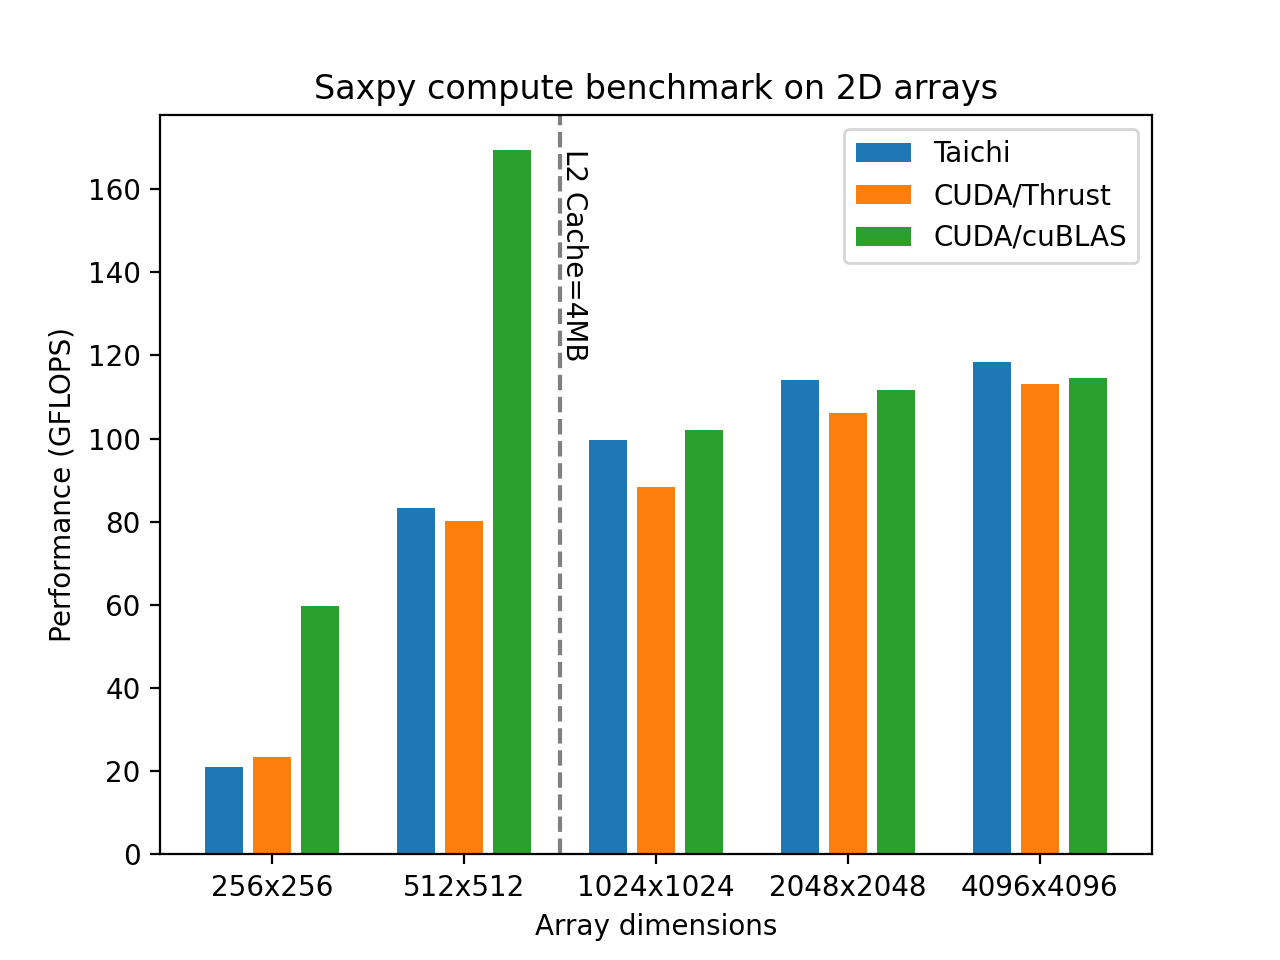
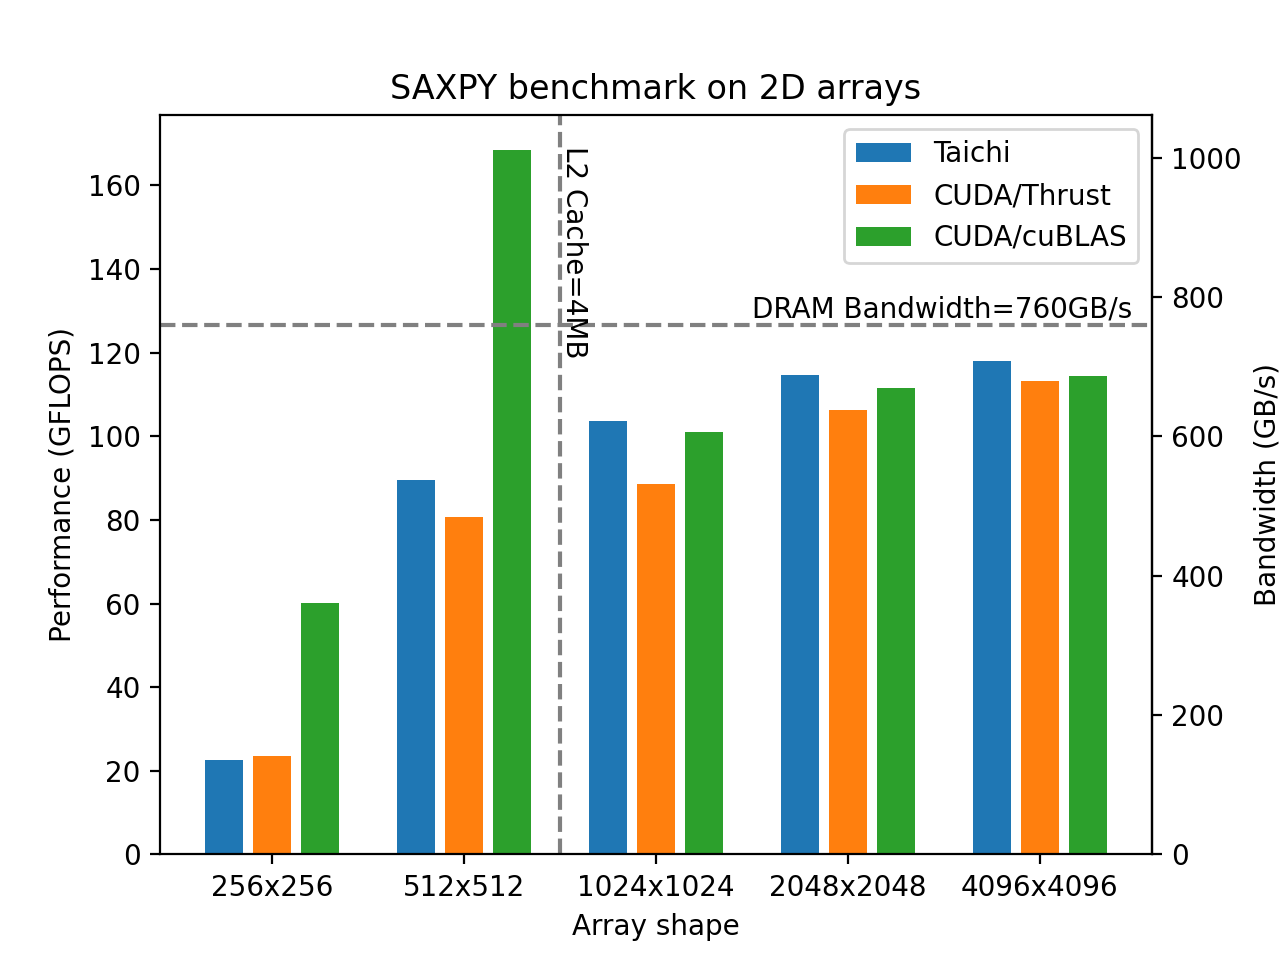
Update figures for base benchmark

diff --git a/saxpy/plot_benchmark.py b/saxpy/plot_benchmark.py
@@ -4,7 +4,7 @@ from src.cuda.benchmark import benchmark as benchmark_cuda
 import sys
 import os
 
-sample_res = '{"cublas": [{"N": 256, "time": 0.002, "gflops": 58.671, "gbs": 352.029}, {"N": 512, "time": 0.003, "gflops": 170.522, "gbs": 1023.134}, {"N": 1024, "time": 0.021, "gflops": 101.976, "gbs": 611.855}, {"N": 2048, "time": 0.075, "gflops": 111.558, "gbs": 669.347}, {"N": 4096, "time": 0.293, "gflops": 114.517, "gbs": 687.102}], "thrust": [{"N": 256, "fold": 1, "time": 0.006, "gflops": 23.711, "gbs": 142.269}, {"N": 256, "fold": 2, "time": 0.005, "gflops": 47.977, "gbs": 143.93}, {"N": 256, "fold": 4, "time": 0.006, "gflops": 94.805, "gbs": 142.207}, {"N": 256, "fold": 8, "time": 0.006, "gflops": 184.875, "gbs": 138.657}, {"N": 256, "fold": 16, "time": 0.006, "gflops": 334.826, "gbs": 125.56}, {"N": 512, "fold": 1, "time": 0.006, "gflops": 81.535, "gbs": 489.212}, {"N": 512, "fold": 2, "time": 0.006, "gflops": 163.743, "gbs": 491.228}, {"N": 512, "fold": 4, "time": 0.006, "gflops": 325.564, "gbs": 488.346}, {"N": 512, "fold": 8, "time": 0.007, "gflops": 641.9, "gbs": 481.425}, {"N": 512, "fold": 16, "time": 0.007, "gflops": 1188.255, "gbs": 445.596}, {"N": 1024, "fold": 1, "time": 0.024, "gflops": 88.949, "gbs": 533.694}, {"N": 1024, "fold": 2, "time": 0.024, "gflops": 178.07, "gbs": 534.211}, {"N": 1024, "fold": 4, "time": 0.023, "gflops": 357.312, "gbs": 535.968}, {"N": 1024, "fold": 8, "time": 0.024, "gflops": 709.66, "gbs": 532.245}, {"N": 1024, "fold": 16, "time": 0.024, "gflops": 1392.069, "gbs": 522.026}, {"N": 2048, "fold": 1, "time": 0.079, "gflops": 106.381, "gbs": 638.284}, {"N": 2048, "fold": 2, "time": 0.079, "gflops": 212.751, "gbs": 638.252}, {"N": 2048, "fold": 4, "time": 0.079, "gflops": 425.298, "gbs": 637.948}, {"N": 2048, "fold": 8, "time": 0.079, "gflops": 849.912, "gbs": 637.434}, {"N": 2048, "fold": 16, "time": 0.079, "gflops": 1689.668, "gbs": 633.625}, {"N": 4096, "fold": 1, "time": 0.296, "gflops": 113.187, "gbs": 679.122}, {"N": 4096, "fold": 2, "time": 0.296, "gflops": 226.36, "gbs": 679.079}, {"N": 4096, "fold": 4, "time": 0.296, "gflops": 452.762, "gbs": 679.144}, {"N": 4096, "fold": 8, "time": 0.297, "gflops": 905.013, "gbs": 678.76}, {"N": 4096, "fold": 16, "time": 0.297, "gflops": 1807.705, "gbs": 677.889}], "taichi": [{"N": 256, "fold": 1, "time": 0.006319954199716448, "gflops": 20.739390802211936, "gbs": 124.43634481327163}, {"N": 256, "fold": 2, "time": 0.0062749893870204685, "gflops": 41.77600691122012, "gbs": 125.32802073366038}, {"N": 256, "fold": 4, "time": 0.006239291187375783, "gflops": 84.03005794325061, "gbs": 126.04508691487594}, {"N": 256, "fold": 8, "time": 0.006320460978895426, "gflops": 165.90182322164276, "gbs": 124.42636741623207}, {"N": 256, "fold": 16, "time": 0.0063150141853839156, "gflops": 332.0898320155564, "gbs": 124.53368700583364}, {"N": 512, "fold": 1, "time": 0.006552474806085229, "gflops": 80.0137376359079, "gbs": 480.08242581544744}, {"N": 512, "fold": 2, "time": 0.00637908037751913, "gflops": 164.37729859861065, "gbs": 493.131895795832}, {"N": 512, "fold": 4, "time": 0.006395104434341192, "gflops": 327.9308448410106, "gbs": 491.8962672615159}, {"N": 512, "fold": 8, "time": 0.006447763834148646, "gflops": 650.5052151237501, "gbs": 487.8789113428126}, {"N": 512, "fold": 16, "time": 0.006529038399457931, "gflops": 1284.815234154, "gbs": 481.8057128077501}, {"N": 1024, "fold": 1, "time": 0.02107226480729878, "gflops": 99.52190802355575, "gbs": 597.1314481413345}, {"N": 1024, "fold": 2, "time": 0.021460041217505933, "gflops": 195.4471549000808, "gbs": 586.3414647002425}, {"N": 1024, "fold": 4, "time": 0.020669475989416243, "gflops": 405.8452185384558, "gbs": 608.7678278076838}, {"N": 1024, "fold": 8, "time": 0.02099389820359647, "gflops": 799.1472492291065, "gbs": 599.3604369218299}, {"N": 1024, "fold": 16, "time": 0.021242901170626282, "gflops": 1579.5597658947613, "gbs": 592.3349122105355}, {"N": 2048, "fold": 1, "time": 0.07358282720670103, "gflops": 114.00225186286492, "gbs": 684.0135111771896}, {"N": 2048, "fold": 2, "time": 0.07370002781972289, "gflops": 227.64192221254828, "gbs": 682.9257666376449}, {"N": 2048, "fold": 4, "time": 0.07357445200905204, "gflops": 456.0609163065424, "gbs": 684.0913744598137}, {"N": 2048, "fold": 8, "time": 0.07350112521089613, "gflops": 913.0317911112943, "gbs": 684.7738433334707}, {"N": 2048, "fold": 16, "time": 0.0736398187931627, "gflops": 1822.6243654535153, "gbs": 683.4841370450682}, {"N": 4096, "fold": 1, "time": 0.2832261357922107, "gflops": 118.47223034747495, "gbs": 710.8333820848497}, {"N": 4096, "fold": 2, "time": 0.2831576330121607, "gflops": 237.00178337455554, "gbs": 711.0053501236667}, {"N": 4096, "fold": 4, "time": 0.2836653312202543, "gflops": 473.1552051941996, "gbs": 709.7328077912994}, {"N": 4096, "fold": 8, "time": 0.28355305101722483, "gflops": 946.6851265997965, "gbs": 710.0138449498473}, {"N": 4096, "fold": 16, "time": 0.28309709001332517, "gflops": 1896.419747637568, "gbs": 711.157405364088}]}'
+sample_res = {"cublas": [{"N": 256, "time": 0.002, "gflops": 58.671, "gbs": 352.029}, {"N": 512, "time": 0.003, "gflops": 170.522, "gbs": 1023.134}, {"N": 1024, "time": 0.021, "gflops": 101.976, "gbs": 611.855}, {"N": 2048, "time": 0.075, "gflops": 111.558, "gbs": 669.347}, {"N": 4096, "time": 0.293, "gflops": 114.517, "gbs": 687.102}], "thrust": [{"N": 256, "fold": 1, "time": 0.006, "gflops": 23.711, "gbs": 142.269}, {"N": 256, "fold": 2, "time": 0.005, "gflops": 47.977, "gbs": 143.93}, {"N": 256, "fold": 4, "time": 0.006, "gflops": 94.805, "gbs": 142.207}, {"N": 256, "fold": 8, "time": 0.006, "gflops": 184.875, "gbs": 138.657}, {"N": 256, "fold": 16, "time": 0.006, "gflops": 334.826, "gbs": 125.56}, {"N": 512, "fold": 1, "time": 0.006, "gflops": 81.535, "gbs": 489.212}, {"N": 512, "fold": 2, "time": 0.006, "gflops": 163.743, "gbs": 491.228}, {"N": 512, "fold": 4, "time": 0.006, "gflops": 325.564, "gbs": 488.346}, {"N": 512, "fold": 8, "time": 0.007, "gflops": 641.9, "gbs": 481.425}, {"N": 512, "fold": 16, "time": 0.007, "gflops": 1188.255, "gbs": 445.596}, {"N": 1024, "fold": 1, "time": 0.024, "gflops": 88.949, "gbs": 533.694}, {"N": 1024, "fold": 2, "time": 0.024, "gflops": 178.07, "gbs": 534.211}, {"N": 1024, "fold": 4, "time": 0.023, "gflops": 357.312, "gbs": 535.968}, {"N": 1024, "fold": 8, "time": 0.024, "gflops": 709.66, "gbs": 532.245}, {"N": 1024, "fold": 16, "time": 0.024, "gflops": 1392.069, "gbs": 522.026}, {"N": 2048, "fold": 1, "time": 0.079, "gflops": 106.381, "gbs": 638.284}, {"N": 2048, "fold": 2, "time": 0.079, "gflops": 212.751, "gbs": 638.252}, {"N": 2048, "fold": 4, "time": 0.079, "gflops": 425.298, "gbs": 637.948}, {"N": 2048, "fold": 8, "time": 0.079, "gflops": 849.912, "gbs": 637.434}, {"N": 2048, "fold": 16, "time": 0.079, "gflops": 1689.668, "gbs": 633.625}, {"N": 4096, "fold": 1, "time": 0.296, "gflops": 113.187, "gbs": 679.122}, {"N": 4096, "fold": 2, "time": 0.296, "gflops": 226.36, "gbs": 679.079}, {"N": 4096, "fold": 4, "time": 0.296, "gflops": 452.762, "gbs": 679.144}, {"N": 4096, "fold": 8, "time": 0.297, "gflops": 905.013, "gbs": 678.76}, {"N": 4096, "fold": 16, "time": 0.297, "gflops": 1807.705, "gbs": 677.889}], "taichi": [{"N": 256, "fold": 1, "time": 0.006319954199716448, "gflops": 20.739390802211936, "gbs": 124.43634481327163}, {"N": 256, "fold": 2, "time": 0.0062749893870204685, "gflops": 41.77600691122012, "gbs": 125.32802073366038}, {"N": 256, "fold": 4, "time": 0.006239291187375783, "gflops": 84.03005794325061, "gbs": 126.04508691487594}, {"N": 256, "fold": 8, "time": 0.006320460978895426, "gflops": 165.90182322164276, "gbs": 124.42636741623207}, {"N": 256, "fold": 16, "time": 0.0063150141853839156, "gflops": 332.0898320155564, "gbs": 124.53368700583364}, {"N": 512, "fold": 1, "time": 0.006552474806085229, "gflops": 80.0137376359079, "gbs": 480.08242581544744}, {"N": 512, "fold": 2, "time": 0.00637908037751913, "gflops": 164.37729859861065, "gbs": 493.131895795832}, {"N": 512, "fold": 4, "time": 0.006395104434341192, "gflops": 327.9308448410106, "gbs": 491.8962672615159}, {"N": 512, "fold": 8, "time": 0.006447763834148646, "gflops": 650.5052151237501, "gbs": 487.8789113428126}, {"N": 512, "fold": 16, "time": 0.006529038399457931, "gflops": 1284.815234154, "gbs": 481.8057128077501}, {"N": 1024, "fold": 1, "time": 0.02107226480729878, "gflops": 99.52190802355575, "gbs": 597.1314481413345}, {"N": 1024, "fold": 2, "time": 0.021460041217505933, "gflops": 195.4471549000808, "gbs": 586.3414647002425}, {"N": 1024, "fold": 4, "time": 0.020669475989416243, "gflops": 405.8452185384558, "gbs": 608.7678278076838}, {"N": 1024, "fold": 8, "time": 0.02099389820359647, "gflops": 799.1472492291065, "gbs": 599.3604369218299}, {"N": 1024, "fold": 16, "time": 0.021242901170626282, "gflops": 1579.5597658947613, "gbs": 592.3349122105355}, {"N": 2048, "fold": 1, "time": 0.07358282720670103, "gflops": 114.00225186286492, "gbs": 684.0135111771896}, {"N": 2048, "fold": 2, "time": 0.07370002781972289, "gflops": 227.64192221254828, "gbs": 682.9257666376449}, {"N": 2048, "fold": 4, "time": 0.07357445200905204, "gflops": 456.0609163065424, "gbs": 684.0913744598137}, {"N": 2048, "fold": 8, "time": 0.07350112521089613, "gflops": 913.0317911112943, "gbs": 684.7738433334707}, {"N": 2048, "fold": 16, "time": 0.0736398187931627, "gflops": 1822.6243654535153, "gbs": 683.4841370450682}, {"N": 4096, "fold": 1, "time": 0.2832261357922107, "gflops": 118.47223034747495, "gbs": 710.8333820848497}, {"N": 4096, "fold": 2, "time": 0.2831576330121607, "gflops": 237.00178337455554, "gbs": 711.0053501236667}, {"N": 4096, "fold": 4, "time": 0.2836653312202543, "gflops": 473.1552051941996, "gbs": 709.7328077912994}, {"N": 4096, "fold": 8, "time": 0.28355305101722483, "gflops": 946.6851265997965, "gbs": 710.0138449498473}, {"N": 4096, "fold": 16, "time": 0.28309709001332517, "gflops": 1896.419747637568, "gbs": 711.157405364088}]}
 
 def run_benchmarks():
     results = benchmark_cuda()
@@ -45,59 +45,43 @@ def extract_nested(result_dict, N=4096):
 
 
 def plot_compute(results):
-    print(results)
-    plt.figure()
-    bar_width = 0.4
+    plt.figure(figsize=(8, 4.5))
+    fig, ax = plt.subplots()
 
     dims, y = extract_gflops(results['taichi'])
     bar_pos = [i*4 for i in range(len(y))]
     labels = ["{}x{}".format(i, i) for i in dims]
-    plt.bar(bar_pos, y)
+    ax.bar(bar_pos, y)
 
     _, y = extract_gflops(results['thrust'])
     bar_pos = [i*4+1 for i in range(len(y))]
-    plt.bar(bar_pos, y)
-    plt.xticks(bar_pos, labels)
+    ax.bar(bar_pos, y)
+    ax.set_xticks(bar_pos, labels)
 
     _, y = extract_gflops(results['cublas'])
     bar_pos = [i*4+2 for i in range(len(y))]
-    plt.bar(bar_pos, y)
-    plt.legend(['Taichi', 'CUDA/Thrust', 'CUDA/cuBLAS'])
-    plt.xlabel("Array dimensions")
-    plt.ylabel("Performance (GFLOPS)")
-    plt.axvline(x = 7, color='grey', linestyle = 'dashed')
-    plt.text(7, 120, 'L2 Cache=4MB', rotation=270)
-    plt.title("Saxpy compute benchmark on 2D arrays")
+    ax.bar(bar_pos, y)
+    ax.legend(['Taichi', 'CUDA/Thrust', 'CUDA/cuBLAS'])
+    ax.set_xlabel("Array shape")
+    ax.set_ylabel("Performance (GFLOPS)")
+    ax.axvline(x = 7, color='grey', linestyle = 'dashed')
+    def comp2mem(x):
+        return x * 6.0
+    def mem2comp(x):
+        return x / 6.0
+    ax2 = ax.secondary_yaxis('right', functions=(comp2mem, mem2comp))
+    ax2.set_ylabel("Bandwidth (GB/s)")
+    ax.text(7, 120, 'L2 Cache=4MB', rotation=270)
+    plt.axhline(y = 760 / 6.0, color='grey', linestyle = 'dashed')
+    plt.text(11, 770/6.0, 'DRAM Bandwidth=760GB/s')
+    ax.set_title("SAXPY benchmark on 2D arrays")
     plt.savefig("fig/compute_bench.png", dpi=200)
 
-def plot_memory_bw(results):
-    plt.figure()
-    dims, y = extract_bw(results['taichi'])
-    bar_pos = [i*4 for i in range(len(y))]
-    labels = ["{}x{}".format(i, i) for i in dims]
-    plt.bar(bar_pos, y)
-
-    _, y = extract_bw(results['thrust'])
-    bar_pos = [i*4+1 for i in range(len(y))]
-    plt.bar(bar_pos, y)
-    plt.xticks(bar_pos, labels)
-
-    _, y = extract_bw(results['cublas'])
-    bar_pos = [i*4+2 for i in range(len(y))]
-    plt.bar(bar_pos, y)
-    plt.legend(['Taichi', 'CUDA/Thrust', 'CUDA/cuBLAS'])
-    plt.xlabel("Array dimensions")
-    plt.ylabel("Performance (GB/s)")
-    plt.title("Saxpy bandwith benchmark on 2D arrays")
-    plt.axhline(y = 760, color='grey', linestyle = 'dotted')
-    plt.text(11, 770, 'DRAM Bandwidth=760GB/s')
-    plt.axvline(x = 7, color='grey', linestyle = 'dashed')
-    plt.text(7, 750, 'L2 Cache=4MB', rotation=270)
-    plt.savefig("fig/bw_bench.png", dpi=200)
-
 def plot_nested(results, N=4096):
-    plt.figure()
-    bar_width = 0.4
+    plt.figure(figsize=(7,4.5))
+    fig, ax_arr = plt.subplots(2, 1)
+
+
     _, y = extract_nested(results['taichi'], N)
     bar_pos = [i*4 for i in range(len(y))]
     plt.bar(bar_pos, y)
@@ -105,7 +89,6 @@ def plot_nested(results, N=4096):
     nesting_factors, y = extract_nested(results['thrust'], N)
     bar_pos = [i*4+1 for i in range(len(y))]
     plt.bar(bar_pos, y)
-    print(nesting_factors)
     labels = ["{}".format(i) for i in nesting_factors]
     plt.xticks(bar_pos, labels)
 
@@ -115,11 +98,40 @@ def plot_nested(results, N=4096):
     y = [y[0] for i in range(bar_count)]
     bar_pos = [i*4+2 for i in range(len(y))]
     plt.bar(bar_pos, y)
-    plt.legend(['Taichi', 'CUDA/Thrust', 'CUDA/cuBLAS'])
+    plt.legend(['Taichi', 'CUDA/Thrust', 'CUDA/cuBLAS'], loc='upper left')
     plt.xlabel("Nesting factor")
     plt.ylabel("Performance (GFLOPS)")
     plt.title("Nested saxpy compute benchmark on {}x{} arrays".format(N, N))
     plt.savefig("fig/nesting_bench_{}.png".format(N), dpi=200)
+
+def plot_nested_all_in_one(results, N_arr=[512, 4096]):
+    fig, ax_arr = plt.subplots(1, len(N_arr), figsize=(14, 4.5))
+    width, height = fig.get_size_inches()*fig.dpi
+
+    for i, N in enumerate(N_arr):
+        ax = ax_arr[i]
+        ax.set_ylim([0, 2000])
+        _, y = extract_nested(results['taichi'], N)
+        bar_pos = [i*4 for i in range(len(y))]
+        ax.bar(bar_pos, y)
+
+        nesting_factors, y = extract_nested(results['thrust'], N)
+        bar_pos = [i*4+1 for i in range(len(y))]
+        ax.bar(bar_pos, y)
+        labels = ["{}".format(i) for i in nesting_factors]
+        ax.set_xticks(bar_pos, labels)
+
+        bar_count = len(y)
+        _, y = extract_nested(results['cublas'], N)
+        assert(len(y) == 1)
+        y = [y[0] for i in range(bar_count)]
+        bar_pos = [i*4+2 for i in range(len(y))]
+        ax.bar(bar_pos, y)
+        ax.legend(['Taichi', 'CUDA/Thrust', 'CUDA/cuBLAS'], loc='upper left')
+        ax.set_xlabel("Nesting factor")
+        ax.set_ylabel("Performance (GFLOPS)")
+        ax.title.set_text("Nested SAXPY benchmark on {}x{} arrays".format(N, N))
+    plt.savefig("fig/nesting_bench_all.png", dpi=200)
 
 if __name__ == '__main__':
     try:
@@ -128,11 +140,10 @@ if __name__ == '__main__':
         pass
 
     if len(sys.argv) >= 2 and sys.argv[1] == 'sample':
-        import json
-        results = json.loads(sample_res)
+        results = sample_res
     else:
         results = run_benchmarks()
     plot_compute(results)
-    plot_memory_bw(results)
     plot_nested(results, 4096)
     plot_nested(results, 512)
+    plot_nested_all_in_one(results)

diff --git a/saxpy/plot_roofline.py b/saxpy/plot_roofline.py
@@ -56,6 +56,8 @@ def plot_results(ax, results):
         x.append(gflops / gbs)
         y.append(gflops)
         color = get_color_marker(rd["N"])
+        if rd["N"] != 4096:
+            continue
         ax.plot([gflops / gbs], [gflops], marker="+", color=color, markersize=6, mew=2)
 
 if __name__ == '__main__':

diff --git a/saxpy/src/taichi/benchmark.py b/saxpy/src/taichi/benchmark.py
@@ -1,4 +1,4 @@
-from saxpy import saxpy as taichi_saxpy
+from .saxpy import saxpy as taichi_saxpy
 
 def benchmark(max_nesting=512, print_res=True):
     rd_arr = []
